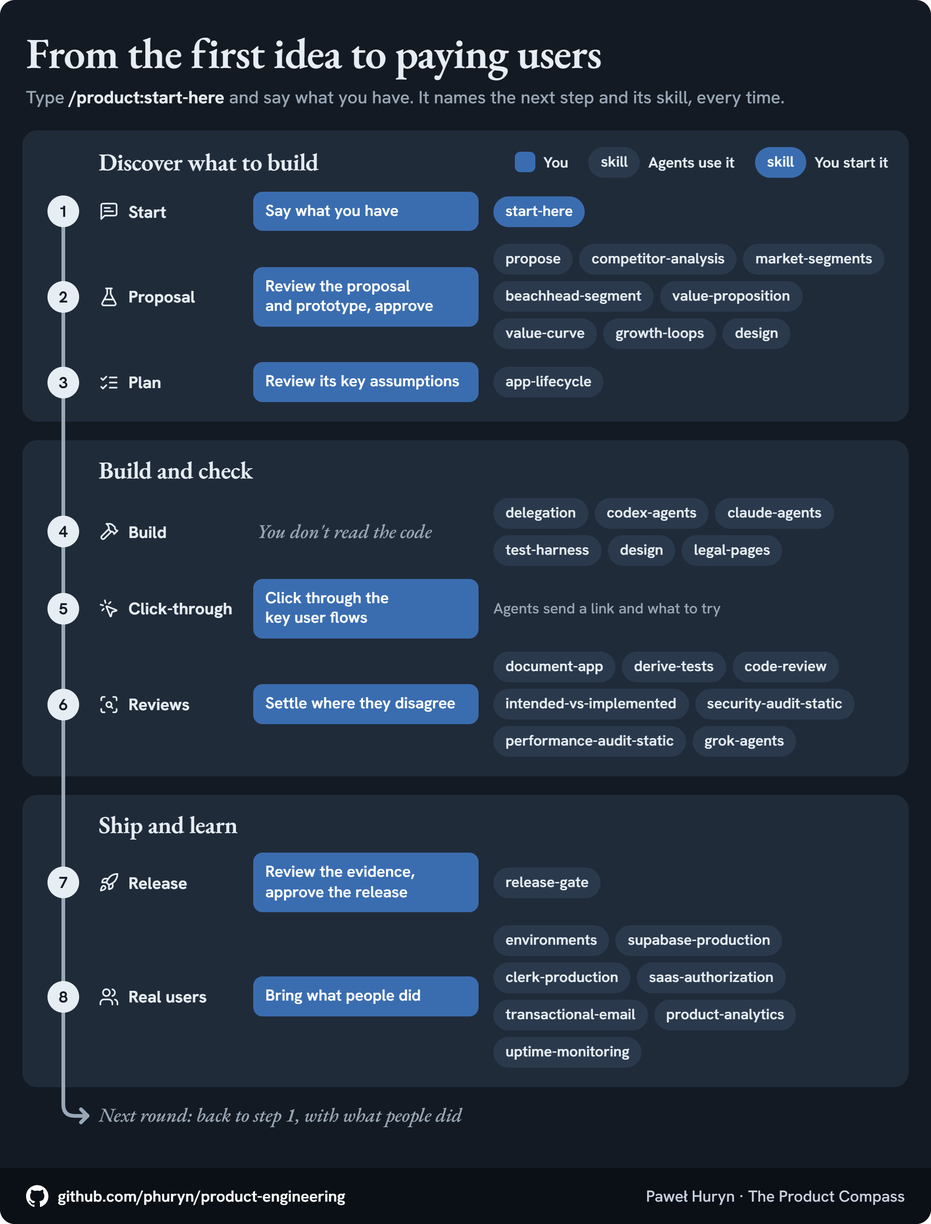
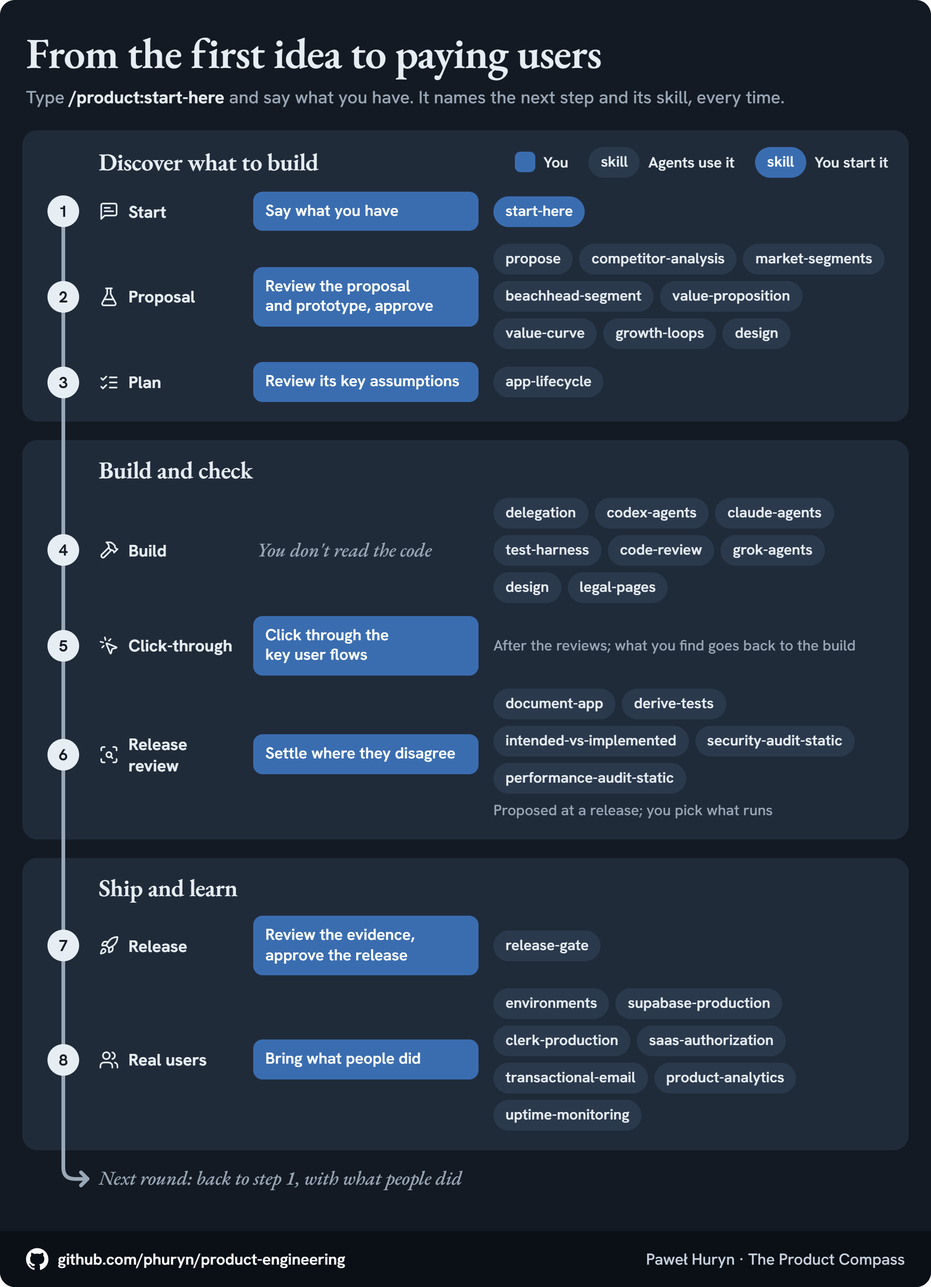
The process order: Build with its reviews, then the click-through, then the release review
Pawel's call (2026-10-29), as a monitoring product's history ran it: on 2026-10-22 a review round
came back clean overnight, the owner's preview that morning found six problems, and each fix went
back through review; no review made an earlier click-through wasted.

Build: one session coordinates, another builds, a different session reviews every change, so no
session reviews its own work; code-review and grok-agents sit there, and the agent walks the
owner through setting up accounts, keys and a domain. Click-through: after the reviews, what the
owner finds goes back to the build and is reviewed again; first when the question is taste, not
when only code behind a screen changed. Release review: before a release the agent proposes the
deeper checks (the docs and legal pages against the code, the coverage map, security and
performance) and the owner picks what runs; release-gate's checklist now proposes the check modes
beside the static audits, and the release still runs one more round on everything unreleased.
README table, prose and alt text, start-here's steps and its release row, the walkthrough, the
preview's fix-and-review line, and the new process graphics.

diff --git a/README.md b/README.md
@@ -17,7 +17,7 @@ Agent skills for building a real product with coding agents, from the first idea
 ## How it works
 
 - **Evidence before the build.** The agent reads what you shared and researches what's missing: alternatives, the market, what people say. It proposes informed hypotheses, each with its source, and asks only what the evidence can't decide.
-- **The product is the spec.** You review the interface first, often an interactive prototype on sample data. Once it's built, you click through it yourself, and agents review the docs, the tests and the code.
+- **The product is the spec.** You review the interface first, often an interactive prototype on sample data. Once it's built and reviewed, you click through it yourself; before a release, agents propose deeper checks of the docs, the tests and the code, and you pick what runs.
 - **Building is the experiment.** Building is cheap now, and use beats intent. Build the first version with payment in days, put it in front of real users, and go round again with what they did.
 - **Production is part of the method.** Nobody pays until payment works in production. The release gate, environments, authorization, billing, email and monitoring are in the collection, not left for later.
 - **The session that wrote the code never clears it.** Before every push that deploys, and again before a release, a fresh reviewer that never saw the build reads the change: Grok when it's installed, so another model family, otherwise a fresh Claude Code session with nothing carried over; with neither CLI, run it by hand (`grok-agents` § Running it). Rounds repeat until one finds nothing the change introduced above low severity. The reviewer is a default you can change: `grok-agents` follows your repository's own instructions first, so a line in your agent instructions names the reviewer (`--reviewer claude` forces the fallback, and any other reviewer gets the same brief and subject in a fresh read-only session).
@@ -30,7 +30,7 @@ The process is the one in the [Product Engineering for PMs](https://www.productc
 
 <picture>
   <source media="(prefers-color-scheme: dark)" srcset="assets/lifecycle-dark.png">
-  <img src="assets/lifecycle-light.png" width="800" alt="The process in eight steps, in three phases (discover what to build, build and check, ship and learn), with what you do at each step and the skills agents use there. 1 Start: you say what you have; start-here, which you start. 2 Proposal: you review the proposal and prototype, and approve; propose, competitor-analysis, market-segments, beachhead-segment, value-proposition, value-curve, growth-loops, design. 3 Plan: you review its key assumptions; app-lifecycle. 4 Build: you don't read the code; delegation, codex-agents, claude-agents, test-harness, design, legal-pages. 5 Click-through: you click through the key user flows; agents send a link and what to try. 6 Reviews: you settle where they disagree; document-app, derive-tests, code-review, intended-vs-implemented, security-audit-static, performance-audit-static, grok-agents. 7 Release: you review the evidence and approve the release; release-gate. 8 Real users: you bring what people did; environments, supabase-production, clerk-production, saas-authorization, transactional-email, product-analytics, uptime-monitoring. Then the next round goes back to step 1.">
+  <img src="assets/lifecycle-light.png" width="800" alt="The process in eight steps, in three phases (discover what to build, build and check, ship and learn), with what you do at each step and the skills agents use there. 1 Start: you say what you have; start-here, which you start. 2 Proposal: you review the proposal and prototype, and approve; propose, competitor-analysis, market-segments, beachhead-segment, value-proposition, value-curve, growth-loops, design. 3 Plan: you review its key assumptions; app-lifecycle. 4 Build: you don't read the code; delegation, codex-agents, claude-agents, test-harness, code-review, grok-agents, design, legal-pages. 5 Click-through: after the reviews, you click through the key user flows; what you find goes back to the build. 6 Release review: you settle where they disagree; proposed at a release, you pick what runs; document-app, derive-tests, intended-vs-implemented, security-audit-static, performance-audit-static. 7 Release: you review the evidence and approve the release; release-gate. 8 Real users: you bring what people did; environments, supabase-production, clerk-production, saas-authorization, transactional-email, product-analytics, uptime-monitoring. Then the next round goes back to step 1.">
 </picture>
 
 Type `/product:start-here` and say what you have. It reads your request and the repository, finds where the work stands, and names the next step and the skill that does it. A change you can check in a minute skips to step 4.
@@ -40,10 +40,10 @@ Type `/product:start-here` and say what you have. It reads your request and the 
 | **1. Start** | Say what you have: an idea, evidence from users, an agreed change, a bug or a release. | Read the request and the repository, and name the next step. | `start-here` |
 | **2. Proposal** | Try the prototype first. Then read the proposal, answer the few questions it asks, and accept it or say what to change. | Research what you didn't share: the alternatives people use and, while it's open, the segment. Propose a direction with every claim's source, and build a prototype on sample data. | `propose`, with `competitor-analysis`, `market-segments`, `beachhead-segment`, `value-proposition`, `value-curve`, `growth-loops`; `design` for the prototype's look |
 | **3. Plan**, complex changes only | Review its key assumptions (how it read your ask, where it disagrees with you, what it needs you to decide), question the ones that look wrong, and say "build it". | Open with the key assumptions, then plan whatever the build needs: phases and releases, the files and modules to change, how to test it, the acceptance criteria. | `start-here` carries the prompt; `app-lifecycle` for a SaaS |
-| **4. Build** | Pick when a stage offers options, such as a design direction. You don't review the code line by line. | One session coordinates and another builds. Tests and docs land with the change, and every fix with a test that failed before it. Before the first stranger is asked for anything, the legal pages are drafted from the code for you to approve. | `delegation`, `codex-agents`, `claude-agents`, `test-harness`, `design`, `legal-pages` |
-| **5. Click-through** | Click through the key user flows on a link: 15 to 20 minutes for a mid-size app, every time. | Send the link and what to try, each an action and what should happen. Fix what you find in the same stage. | `start-here`; the preview in `release-gate` |
-| **6. Reviews** | Decide where a doc, the coverage map and the code disagree, because a doc rewritten to match faulty code blesses the bug. | Check the docs, the tests and the code, the legal pages read as intent too. Then a fresh reviewer that never saw the build reviews the change, round after round: Grok when it's installed, or the one your agent instructions name. | `document-app` and `derive-tests` in check mode; `code-review`, `intended-vs-implemented`, `security-audit-static`, `performance-audit-static`; `grok-agents` |
-| **7. Release** | Check what the stage promised; when a screen or its words changed, look over every screen in every state, theme, width and role, signed out included; then say go. Silence is not go. | Collect the evidence for every precondition, promote, and verify that the build serving is the one reviewed. | `release-gate` |
+| **4. Build** | Pick when a stage offers options, such as a design direction. When the app needs accounts, keys or a domain, set them up as the agent walks you through. You don't review the code line by line. | One session coordinates and another builds, and a different session reviews every change: no session reviews its own work. Tests and docs land with the change, and every fix with a test that failed before it. A fresh reviewer that never saw the build reviews each change, round after round: Grok when it's installed, or the one your agent instructions name. Before the first stranger is asked for anything, the legal pages are drafted from the code for you to approve. | `delegation`, `codex-agents`, `claude-agents`, `test-harness`, `code-review`, `grok-agents`, `design`, `legal-pages` |
+| **5. Click-through** | After the reviews, click through the key user flows on a link: 15 to 20 minutes for a mid-size app. Click first when the question is taste or whether it's the right thing, or when you want to. | Once the reviews are clean or running, send the link and what to try, each an action and what should happen. What you find goes back to the build and is reviewed again. No click-through when only code behind a screen changed. | `start-here`; the preview in `release-gate` |
+| **6. Release review** | Pick which deeper checks run, and decide where a doc, the coverage map and the code disagree, because a doc rewritten to match faulty code blesses the bug. | Before a release, propose the deeper checks: the docs and the legal pages against the code, the coverage map, security and performance. Run the ones you pick. | `document-app` and `derive-tests` in check mode; `intended-vs-implemented`, `security-audit-static`, `performance-audit-static` |
+| **7. Release** | Check what the stage promised; when a screen or its words changed, look over every screen in every state, theme, width and role, signed out included; then say go. Silence is not go. | Run one more review round on everything unreleased, collect the evidence for every precondition, promote, and verify that the build serving is the one reviewed. | `release-gate` |
 | **8. Real users** | Bring what people did: analytics, payments, support notes. | Run production: data, sign-in, payments, email, monitoring, and analytics that read back what people did without cookies. Weigh the new evidence against each hypothesis and propose the next round. | `product-analytics`, `environments`, `supabase-production`, `clerk-production`, `saas-authorization`, `transactional-email`, `uptime-monitoring`; `propose` |
 
 Each step with an example, from the first prompt to the next round: [WALKTHROUGH.md](WALKTHROUGH.md).

diff --git a/product/skills/start-here/SKILL.md b/product/skills/start-here/SKILL.md
@@ -29,8 +29,8 @@ Read what came with the request, then the repository: its agent instructions, it
 | **An agreed change, small** (you can say it in a sentence and check it in a minute) | build it and verify it; no proposal, no plan | the `test-harness` skill |
 | **An agreed change, complex** | a plan first, with the plan prompt below; then build | below; then the `delegation` skill if another agent builds it |
 | **A bug** | reproduce it, fix it with a test that failed before the fix; after two fixes that pass and leave the symptom, stop and get one observation | the `test-harness` skill, § When a fix doesn't land |
-| **A release** | the gate, the owner's preview, the independent review, promote, prove it serves | the `release-gate` and `grok-agents` skills |
-| **The end of a session** | hand over, or turn its friction into a setup fix | type `/agent-harness:handover` or `/agent-harness:retro` (Codex: `$agent-harness:handover`, `$agent-harness:retro`) |
+| **A release** | the gate, the independent review, the owner's preview, the deeper checks you pick, promote, prove it serves | the `release-gate` and `grok-agents` skills |
+| **The end of a session** | hand over, or build its learnings into the setup | type `/agent-harness:handover` or `/agent-harness:retro` (Codex: `$agent-harness:handover`, `$agent-harness:retro`) |
 | **Nothing yet, an empty repository** | the same as a new idea | the `propose` skill |
 
 **Small fixes go straight to the build and its verification.** The steps below are for work that has them; a one-line copy change that walks through a proposal and a plan is ceremony, and ceremony teaches everyone to skip the steps that matter.
@@ -46,12 +46,13 @@ Read what came with the request, then the repository: its agent instructions, it
    ```
 
    The models plan well when asked; what gets skipped is the ask. The prompt has the agent open the plan with its key assumptions, and those are what you review: what the ask means in this product, where a number or a word you gave is wrong, and what needs a person to decide, moved up from the end, where the model plan has it (`app-lifecycle`, `references/capabilities.md` § What a proposal looks like). The rest of the plan is for the agents that build it, and the prompt names the least it holds, not all it may: phases and releases, the files and modules each phase changes, whatever the build needs. The agent may ask questions first, and may show the plan as a page (in Claude, an artifact), which is easier to review than terminal text. The page is a view: the plan itself goes into the repository, where the next session reads it (§ Sessions). The testing is the agents', with one limit: **a test that would touch production, its users or its data runs only with your go**, so the plan names it and the agent asks before it runs. (`2026-09-14`, a live Q&A product: asked for a per-IP rate limit, the plan's test section said the host's limits exist only on the host and couldn't be tested locally. The owner ran the plan with a test there, last: it sent requests from the tester's own address until the host refused one with HTTP 429, which blocks only that address for a minute, then checked that pages still loaded. Both limits were confirmed that way.)
-4. **Build.** One session coordinates; another builds when one is available; a third reviews. Tests and doc lines land with the change. *The `delegation`, `codex-agents` and `test-harness` skills; before the first stranger is asked for anything, the `legal-pages` skill.*
-5. **Click-through.** At the end of every change that alters what a person sees, you click through the common flows yourself: a link and the key user flows to try, each an action and what should happen. Fifteen to twenty minutes for a mid-size app, every time. Agents taking screenshots miss what moves and what is visible only for a moment. (`2026-10-22`, a monitoring product: ten minutes of its owner using a preview found six problems no review had.) *The `release-gate` skill, § The owner's preview.*
-6. **Reviews.** Three questions, in this order:
-   - **Are the docs right?** Where the strategy, segments, roles, flows, rules and integrations are written, and whether they match the code. Check mode reports, it doesn't rewrite: when a doc and the code disagree about what the product should do, that is your decision, and a doc rewritten to match faulty code blesses the bug. *The `document-app` skill in `check` mode, or the `shipping-artifacts` skill for what each doc holds.*
-   - **Are the tests right?** What is missing, and whether each test would fail if the behaviour broke. A coverage map shows what is tested, not whether the tests are any good. *The `derive-tests` skill in `check` mode, which reports and writes nothing. Where a test, the coverage map and a doc disagree, you decide which one moves; the change then lands with its tests (the `test-harness` skill).*
-   - **Is the code right?** Correctness, then security and performance, findings by priority. *The `code-review` skill; the `security-audit-static` and `performance-audit-static` skills at a release; then a fresh reviewer that never saw the build, the `grok-agents` skill.* For an app built without docs, type `/ai-shipping:ship-check` (Codex: `$ai-shipping:ship-check`): all of it in one long pass, writing as it goes (the docs from the code, the agent instructions, the coverage map). Where docs already say what the product should do, or whoever runs the gate keeps the coverage map, it lists what it would overwrite and asks first.
+4. **Build.** One session coordinates; another builds when one is available; a different session reviews every change, so no session reviews its own work: a fresh reviewer that never saw the build, round after round. Tests and doc lines land with the change. When the app needs accounts, keys or a domain, the agent asks you to set them up and walks you through it. *The `delegation`, `codex-agents`, `test-harness`, `code-review` and `grok-agents` skills; before the first stranger is asked for anything, the `legal-pages` skill.*
+5. **Click-through.** After the reviews, at the end of every change that alters what a person sees, you click through the key user flows yourself: a link and the key user flows to try, each an action and what should happen. Fifteen to twenty minutes for a mid-size app, every time. What you find goes back to the build and is reviewed again. Click first when the question is taste or whether it's the right thing, or when you ask; not when only code behind a screen changed. Agents taking screenshots miss what moves and what is visible only for a moment. (`2026-10-22`, a monitoring product: its review came back clean overnight; ten minutes of its owner using a preview that morning found six problems no review had, and each fix went back through review.) *The `release-gate` skill, § The owner's preview.*
+6. **Release review.** Before a release, the agent proposes the deeper checks, and you pick what runs:
+   - **Are the docs right?** Where the strategy, segments, roles, flows, rules, integrations and legal pages are written, and whether they match the code. Check mode reports, it doesn't rewrite: when a doc and the code disagree about what the product should do, that is your decision, and a doc rewritten to match faulty code blesses the bug. *The `document-app` skill in `check` mode, and the `intended-vs-implemented` skill.*
+   - **Are the tests right?** What is missing, and whether each test would fail if the behaviour broke. *The `derive-tests` skill in `check` mode, which reports and writes nothing; where a test, the coverage map and a doc disagree, you decide which one moves.*
+   - **Security and performance?** *The `security-audit-static` and `performance-audit-static` skills, proposed, never run unasked.*
+   The code review and the fresh reviewer already ran at the build; at the release, `release-gate` runs one more round on everything unreleased. For an app built without docs, type `/ai-shipping:ship-check` (Codex: `$ai-shipping:ship-check`): all of it in one long pass, writing as it goes (the docs from the code, the agent instructions, the coverage map). Where docs already say what the product should do, or whoever runs the gate keeps the coverage map, it lists what it would overwrite and asks first.
 7. **Release.** *The `release-gate` skill*, and for a SaaS, the go-live stage of the `app-lifecycle` skill. Watch it in production: *the `uptime-monitoring` skill.*
 8. **Real users, then the next round.** What they did, returned to, abandoned and paid for goes back into step 1. *The `propose` skill, § Running it again; when nothing measures what people do yet, the `product-analytics` skill.*
 

diff --git a/ai-shipping/skills/release-gate/references/checklist.md b/ai-shipping/skills/release-gate/references/checklist.md
@@ -9,7 +9,7 @@ Post every box with its evidence. A box the owner waives is recorded as **waived
 - [ ] **The gate passed locally on the exact commit**, every exit code read from the log rather than the task notification (`SKILL.md § What counts as evidence`). There is no hosted CI unless it was wired as its own change (`go-live.md § Guards and hosted CI`); the local gate — the only one that includes the authenticated mile — is the gate. **A failure that was red before the release is still a failure**: carried, not caused, and still owed a fix before promotion. (`2026-09-14`, a live Q&A product promoted with two browser tests that had been red at the previous promotion too; its own record now says pre-existing failures still block promotion: fix them, re-run the full gate, finish the acceptance checks, then ask for the go.)
 - [ ] **No suite flaking.** "Usually passes" is a no-go. A red run followed by a green one is recorded as both, never as cancelled (`test-harness`).
 - [ ] **The independent review ran on the whole unreleased range against a still tree**, and its last round produced no INTRODUCED finding above Low and no High or Critical of any age; a fix made after a round got a round of its own (`grok-agents` § When). Pre-existing findings below High are in the backlog with a reason and a revisit trigger; High and Critical ones are fixed before the go whatever their age (`SKILL.md` § The independent review). Run it with the `grok-agents` skill: its wrapper uses Grok when the Grok CLI is installed and a fresh read-only Claude Code session when it is not (`--check` says which), so a missing CLI never skips the round; with neither CLI, run it by hand (`grok-agents` § Running it). Round 1's range is computed from git (`origin/<product>-prod..<product>` plus the working tree), never described in prose. At the first release, before the production branch exists, it is the whole product (`go-live.md`, step 2).
-- [ ] **The docs describe the code as it is**, the coverage map included — written by whoever ran the gate. The `document-app` and `derive-tests` skills in `check` mode, run on the whole repository (they take a path, not a git range, and write nothing either way), list where docs, coverage map and code disagree. Each mismatch is fixed before the go, on the side the owner picks. **A stale doc is never deferred.** **When the release changes a state every doc describes** — production now exists, a capability went live, a service moved — grep every doc for the phrases of the old state and fix them in one pass, not the one line a reviewer names. (`2026-10-24`, a monitoring product: eight review rounds each found another line still calling production unbuilt; the fifth round's fix was the first swept by phrase, and three later rounds still found more.)
+- [ ] **The docs describe the code as it is**, the coverage map included — written in the change by whoever ran the gate. **Proposed to the owner, beside the static audits:** the `document-app` and `derive-tests` skills in `check` mode, run on the whole repository (they take a path, not a git range, and write nothing either way), which list where docs, coverage map and code disagree. Each mismatch they find is fixed before the go, on the side the owner picks; a check the owner declines is recorded as declined. **A stale doc is never deferred.** **When the release changes a state every doc describes** — production now exists, a capability went live, a service moved — grep every doc for the phrases of the old state and fix them in one pass, not the one line a reviewer names. (`2026-10-24`, a monitoring product: eight review rounds each found another line still calling production unbuilt; the fifth round's fix was the first swept by phrase, and three later rounds still found more.)
 - [ ] **When the product sells or promises anything, everything sold as live is built:** the go-live check passed on the exact commit (`go-live.md § Go live`), and an area this release makes live has its flag flipped, with every "not yet" sentence about it, in this release.
 - [ ] **Every backlog entry whose revisit trigger this release fires is acted on, or re-set with a new trigger and the reason** — never left firing. (`2026-10-24`, a monitoring product: an entry triggered by "the first deploy" fired at five promotions in a row; each release record said *smoke: not run*, and nothing was built.)
 - [ ] **Proposed to the owner, never run unasked:** the `security-audit-static` and `performance-audit-static` skills on `<range>`, where `<range>` is the review's round-1 range (`origin/<product>-prod..<product>`), plus `changes` when the tree is dirty. The first release has no production branch yet, so its audits are the whole-repository pass. A whole-repository pass (no argument) is proposed only on the first release, after a large refactor, or when the owner asks. They are steered passes beside the independent review, never instead of it. Each writes its report under `reports/`, which is gitignored — a security report does not belong in the repository's history. What they found is fixed or in the backlog; a pass the owner declines is recorded as declined. A recommendation from either to run a writing mode of `document-app`, `derive-tests` or `ship-check` is declined (`SKILL.md § Static audits`).

diff --git a/WALKTHROUGH.md b/WALKTHROUGH.md
@@ -54,15 +54,18 @@ A stage that offers options stops until you pick, such as two design directions.
 
 ## 4. Build
 
-One session coordinates. Another builds when one is available: Codex through `codex-agents`, or a Claude subagent briefed through `delegation`. A third reviews.
+One session coordinates. Another builds when one is available: Codex through `codex-agents`, or a Claude subagent briefed through `delegation`. A different session reviews every change, so no session reviews its own work.
 
-You don't review the code line by line. Two rules apply instead:
+You don't review the code line by line. Three rules apply instead:
 - **Every change lands with its tests and docs.**
 - **Every fix lands with a test that failed before it.** After two fixes that pass and leave the symptom, the agent stops and gets one real observation instead of guessing again (`test-harness`).
+- **A fresh reviewer that never saw the build reads each change**, round after round, until a round finds nothing the change introduced above low severity (`grok-agents`). It is Grok when it's installed, otherwise a fresh Claude Code session with nothing carried over (with neither CLI, a fresh read-only session of your agent), or the one your agent instructions name. For a correctness review of your own, say "review this with ai-shipping's code-review skill"; in Claude Code name it `/ai-shipping:code-review`, because Claude Code has its own `/code-review`.
+
+When the app needs accounts, keys or a domain, the agent asks you to set them up and walks you through it.
 
 ## 5. Your click-through
 
-After every change you can see, you get a link and the key user flows to try, each an action and what should happen:
+After the reviews, for every change you can see, you get a link and the key user flows to try, each an action and what should happen:
 
 ```
 1. Sign up as a tutor and add Tuesday 4-6 pm: a student's booking page shows those slots in the student's time zone.
@@ -71,19 +74,17 @@ After every change you can see, you get a link and the key user flows to try, ea
 Not built yet: the monthly plan's limits.
 ```
 
-Expect 15 to 20 minutes for a mid-size app, every time. Screenshots taken by agents miss what moves and what is visible only for a moment, so this check is yours. What you find is fixed in the same stage.
+Expect 15 to 20 minutes for a mid-size app, every time. Screenshots taken by agents miss what moves and what is visible only for a moment, so this check is yours. What you find goes back to the build and is reviewed again. Click first when the question is taste or whether it's the right thing; skip it when only code behind a screen changed.
 
-## 6. Agentic reviews
+## 6. Release review
 
-Each question has its own skill. Ask in plain words, or name the skill.
+Before a release, the agent proposes the deeper checks, and you pick what runs. Each question has its own skill; ask in plain words, or name the skill.
 
-1. **Are the docs right?** Say "check our docs against the code": `document-app` in check mode.
+1. **Are the docs right?** Say "check our docs against the code": `document-app` in check mode, with `intended-vs-implemented` reading the docs and the legal pages as intent.
 2. **Are the tests right?** Say "is our coverage map current?": `derive-tests` in check mode.
-3. **Is the code right?** Say "review this with ai-shipping's code-review skill" for correctness, or ask for security and performance as well, and check which one ran. In Claude Code, name it `/ai-shipping:code-review`, because Claude Code has its own `/code-review`. With the skill folder copied into the repository it has the same name as Claude Code's own `/code-review`, so say "review this with the code-review skill in .claude/skills", and check which one ran.
+3. **Security and performance?** Say "audit this release": `security-audit-static` and `performance-audit-static`, on the release's changes.
 
-Both check modes only report. Where a doc, a test and the code disagree about what the product should do, you decide which one moves, because a doc rewritten to match faulty code blesses the bug.
-
-Before every push that deploys, a fresh reviewer that never saw the build reads the change (`grok-agents`). At a release, "ship it" runs that review and both check modes, and proposes the security and performance audits. The reviewer is Grok when it's installed, otherwise a fresh Claude Code session with nothing carried over (with neither CLI, a fresh read-only session of your agent). Rounds repeat until one finds nothing the change introduced above low severity. Older high and critical findings are fixed too.
+The check modes and the audits only report. Where a doc, a test and the code disagree about what the product should do, you decide which one moves, because a doc rewritten to match faulty code blesses the bug. At the release, "ship it" also runs one more review round on everything unreleased. Older high and critical findings are fixed too.
 
 **An app built without docs** gets all of this in one long pass: `/ai-shipping:ship-check`. It writes the system docs from the code, refreshes the agent instructions, reviews, maps test coverage and ends in a packet you sign off on. Where docs already say what the product should do, it lists what it would overwrite and asks first.
 

diff --git a/ai-shipping/skills/release-gate/SKILL.md b/ai-shipping/skills/release-gate/SKILL.md
@@ -65,7 +65,7 @@ When a stage, or any change a person would see, is ready — the gate green on y
 
 - **The list:** the key user flows the change touches, each an action and what should happen ("Upload a 6 MB photo as the logo: the page shows it sharp"), then anything known to be missing or not verified, so the look is not spent on it.
 - **The link:** the deployed development URL when hosting exists and the change is deployed there; otherwise, or to try something before it deploys, a Cloudflare quick tunnel to your `next dev`. The tunnel's address is public — development only, the link to the owner and nowhere else, tunnel and dev server stopped when the owner is done (`environments`, `references/environments-and-branches.md § Showing development to the owner`).
-- **What the owner finds is fixed within the same stage.** A stage that changes what people see is not done until the owner has looked. Where a stage's done-when already names an owner click-through, this preview is how it is asked for: one link and one list, not a second request.
+- **What the owner finds is fixed within the same stage**, and the fix is reviewed like any other change. A stage that changes what people see is not done until the owner has looked. Where a stage's done-when already names an owner click-through, this preview is how it is asked for: one link and one list, not a second request.
 - It does **not** replace the exploratory pass at a promotion, which looks at every screen and state; the preview looks at what the stage changed.
 - **"Ready to test" means installed on every surface the owner holds, with nothing for the owner to do first.** Where a product has several surfaces — a site that serves the latest push, an extension or app that runs the last *installed* build, a phone that loads the last *pushed* bundle — they diverge silently. Before saying ready: the gate green on your own run, the change committed, every surface the owner uses rebuilt and reinstalled or pushed, and the message says which surfaces carry what and which need a reload or a restart. Finish the batch, or hand off what is genuinely there and name its edges. (`2026-08-19`, the remote-control product: the owner tested two fixes against the previous night's build and had to ask whether they had been reinstalled.) The delegation side of the same rule is in `delegation`.
 
